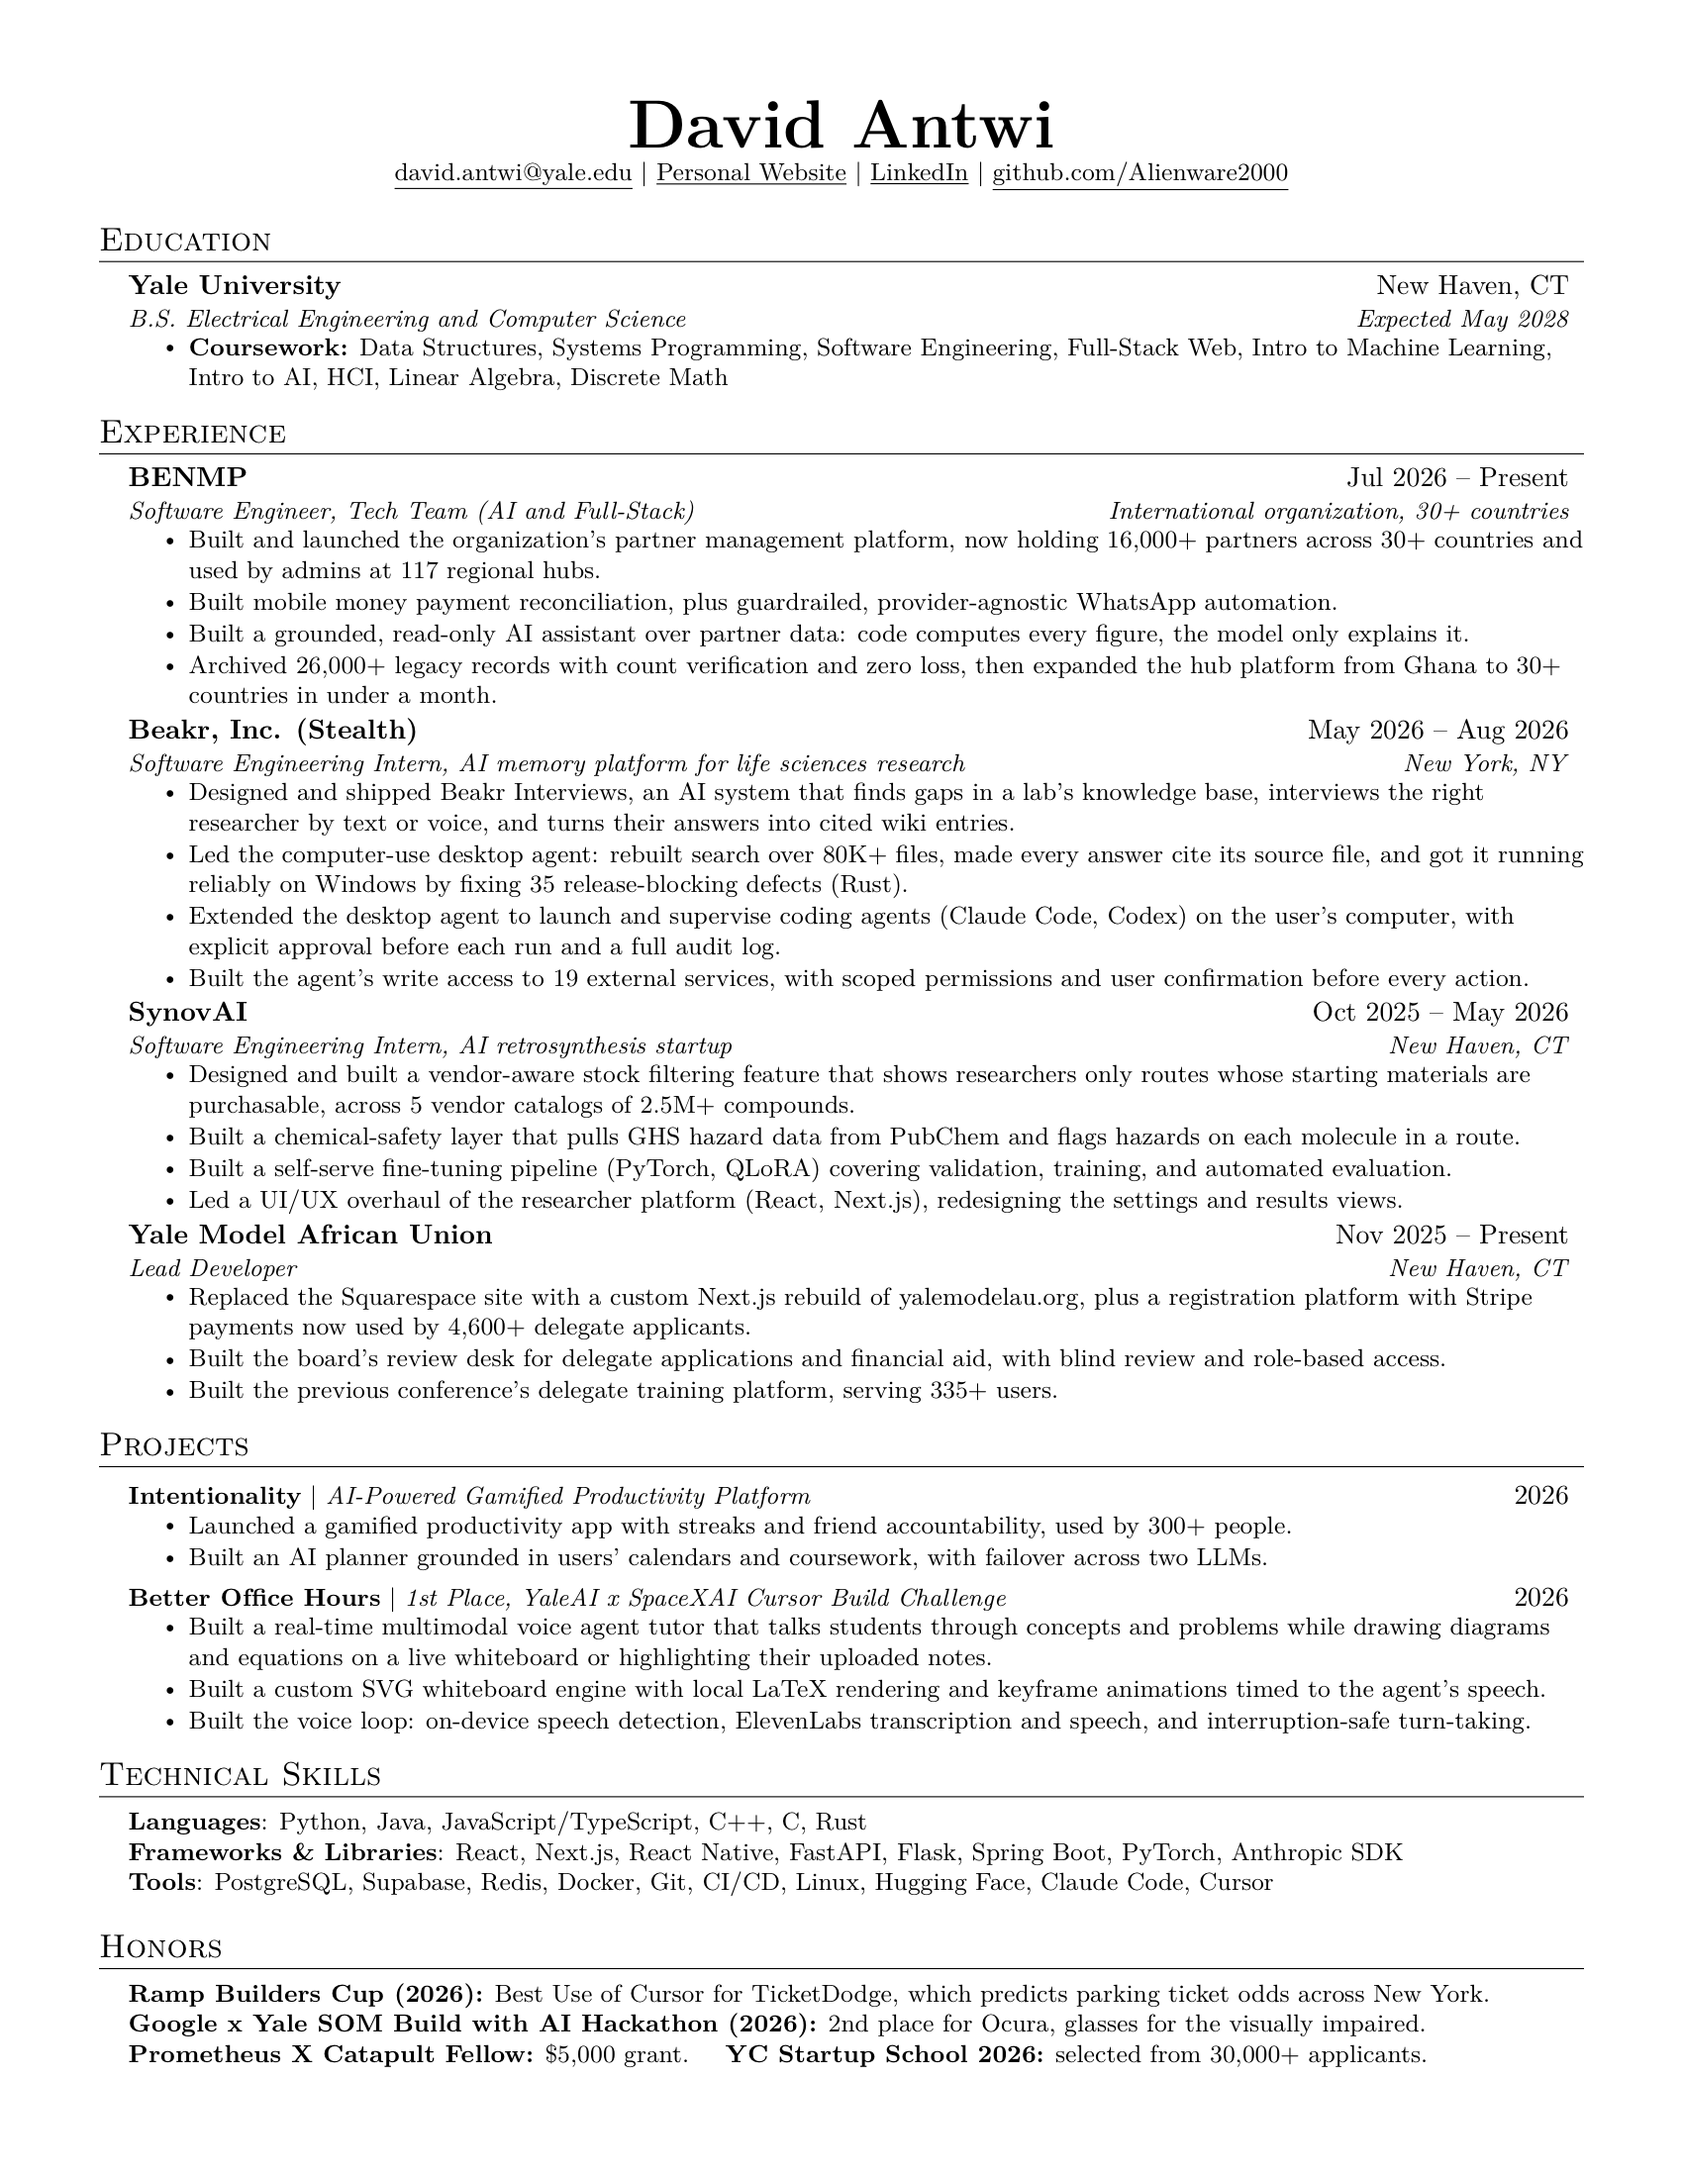
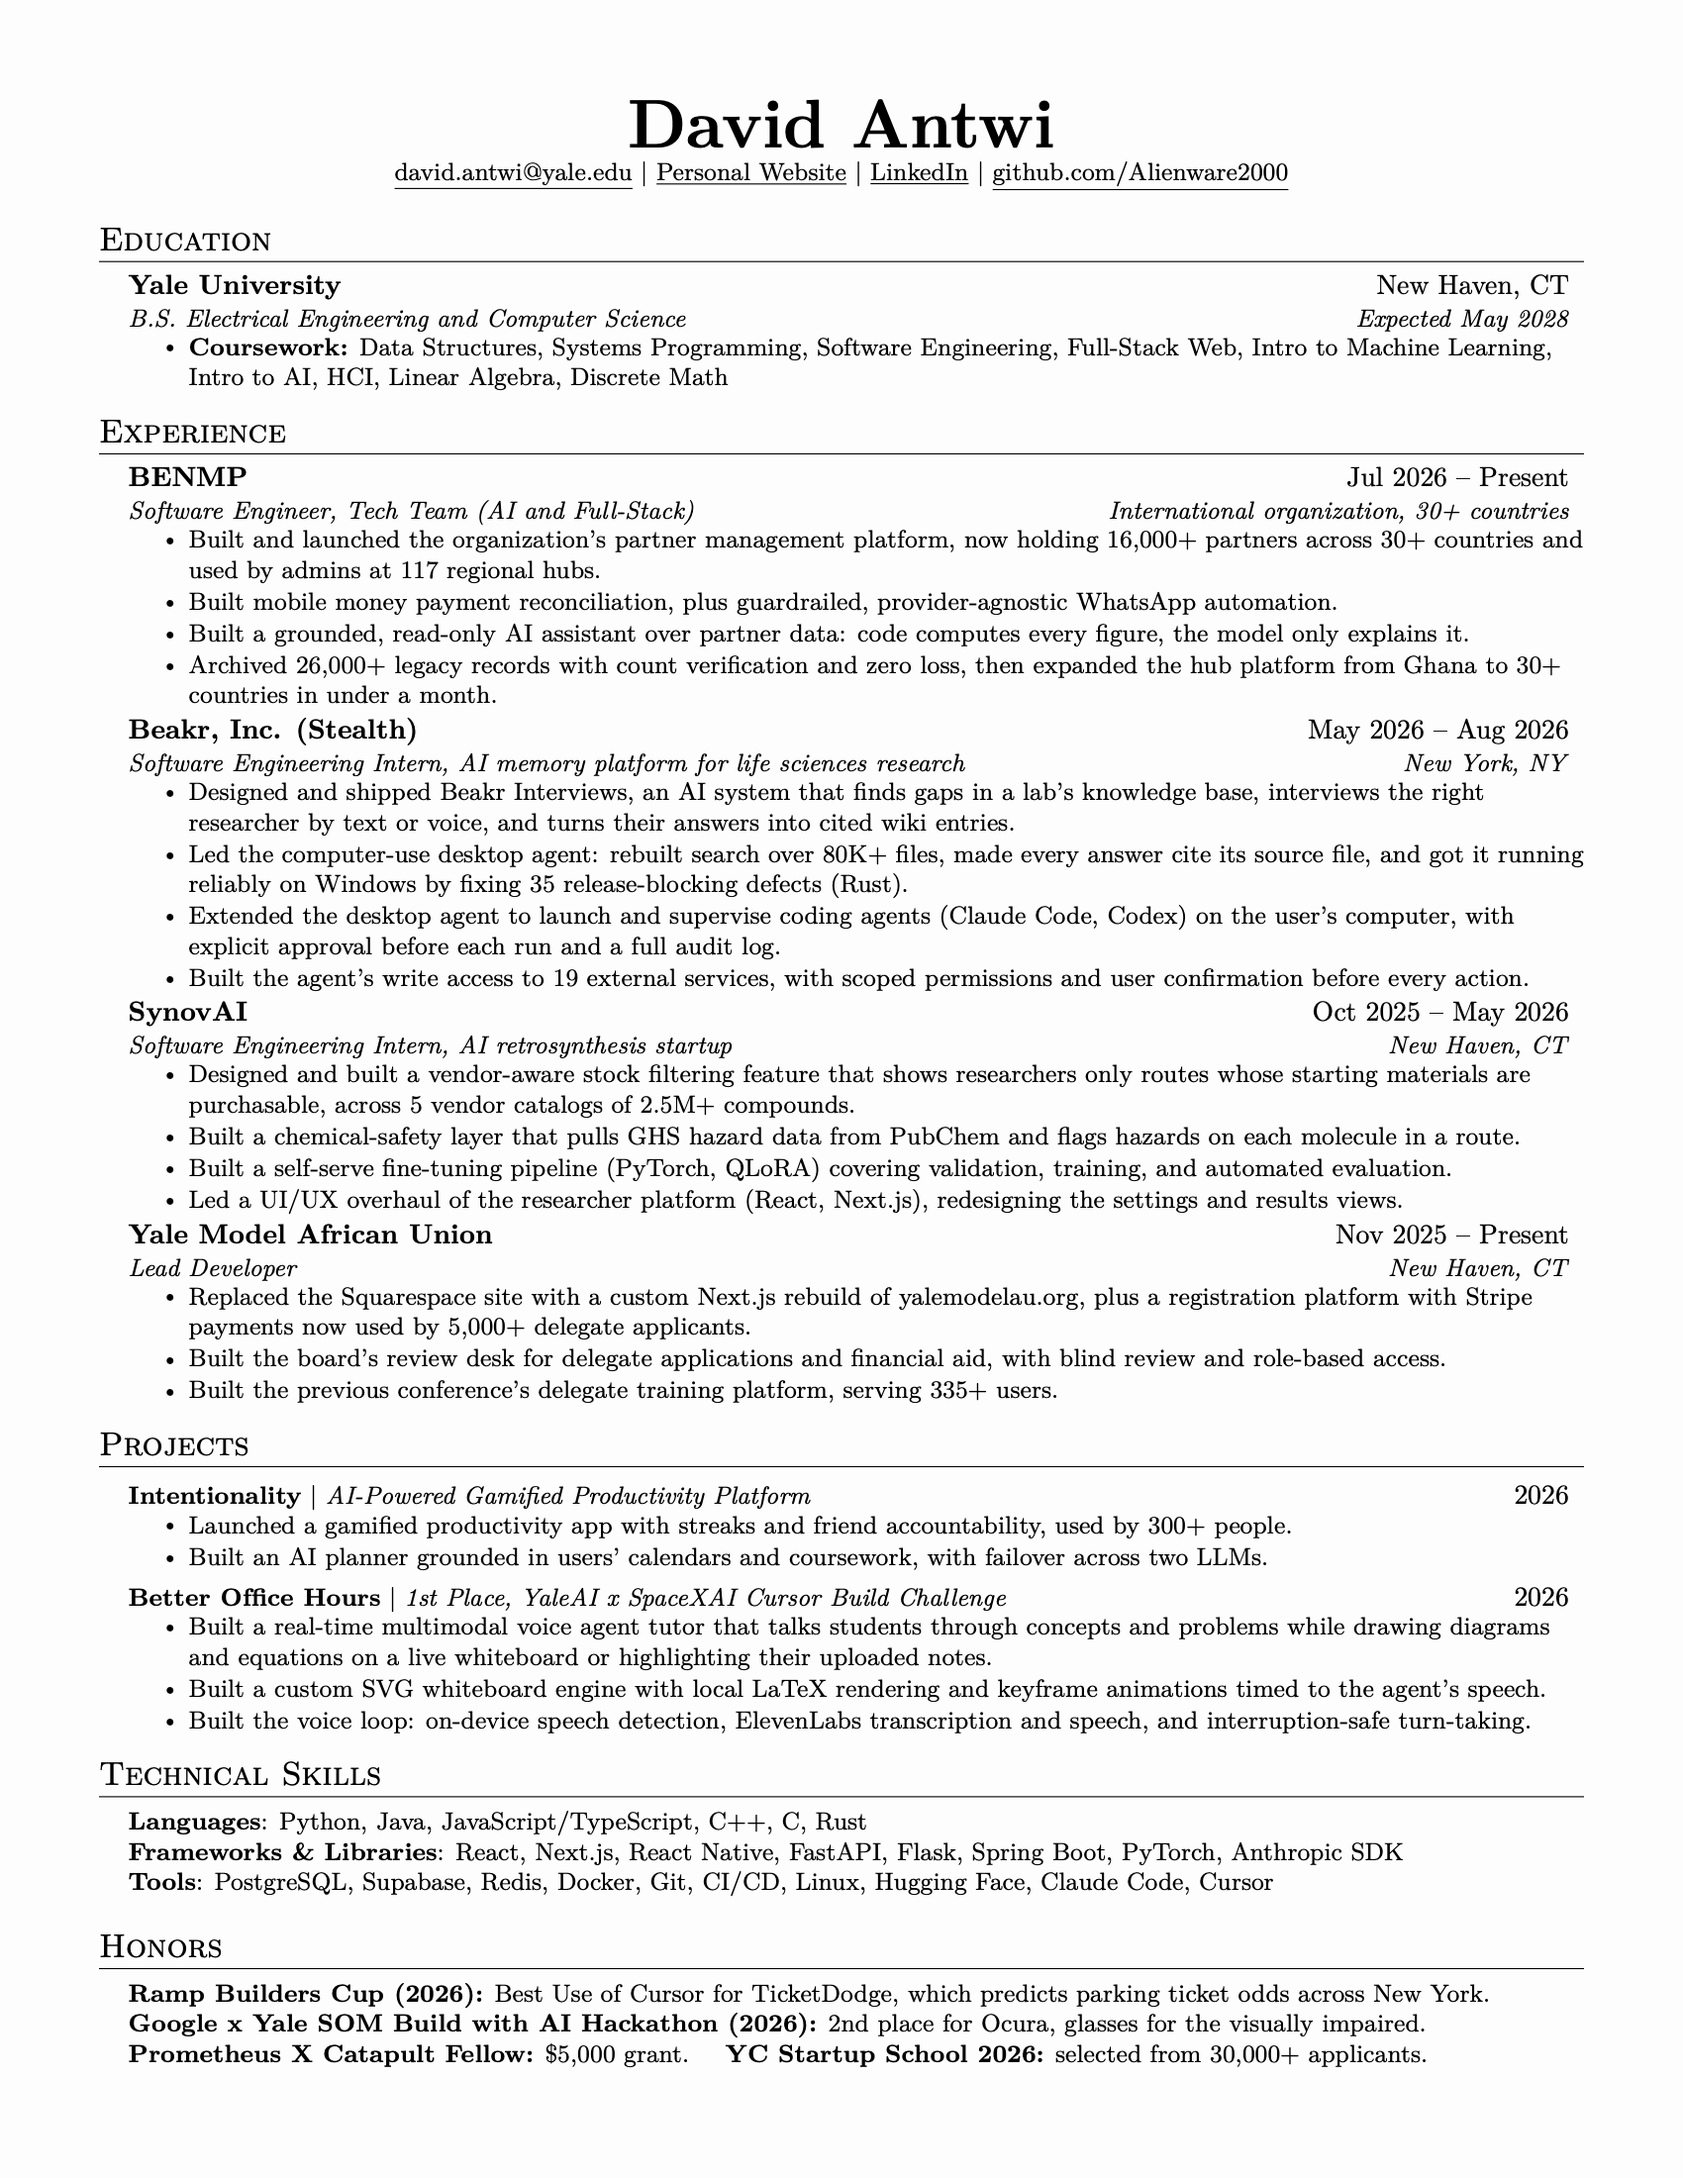
Update YMAU VI numbers: 5,000+ delegates, 127 delegations

diff --git a/src/data/profile.js b/src/data/profile.js
@@ -22,7 +22,7 @@ export const profile = {
 
 export const stats = [
   { value: "16,000+", label: "partners in 30+ countries on a platform I co-built" },
-  { value: "4,600+", label: "delegates on a conference registration platform I built" },
+  { value: "5,000+", label: "delegates on a conference registration platform I built" },
   { value: "2", label: "startup software engineering internships" },
   { value: "3", label: "hackathon wins in 2026" },
 ];
@@ -148,7 +148,7 @@ export const leadership = [
     role: "Lead Developer · Committee Chair",
     dates: "Nov 2025 → Now",
     active: true,
-    text: "Rebuilt the conference site and built the registration platform (4,600+ delegates and 116 delegations for YMAU VI), and chaired a 30-delegate committee at the Accra conference.",
+    text: "Rebuilt the conference site and built the registration platform (5,000+ delegates and 127 delegations for YMAU VI), and chaired a 30-delegate committee at the Accra conference.",
   },
   {
     org: "Yale Africa Innovation Symposium",
@@ -301,7 +301,7 @@ export const projects = [
     featured: 7,
     category: "product",
     description:
-      "Conference site, Stripe registration, and a blind-review desk for delegate applications and financial aid. 4,600+ delegates and 116 delegations signed up for YMAU VI so far.",
+      "Conference site, Stripe registration, and a blind-review desk for delegate applications and financial aid. 5,000+ delegates and 127 delegations signed up for YMAU VI so far.",
     tags: ["Next.js", "Stripe", "PostgreSQL"],
     live: "https://www.yalemodelau.org",
     preview: true,
@@ -458,11 +458,11 @@ export const projects = [
 
 // "Building now": what I'm working on right now, one line per project (not a changelog).
 // Update the list and `updated` whenever the work changes; agents read `updated` as "current as of".
-export const updated = "2026-10-27";
+export const updated = "2026-11-02";
 export const building = [
   { tag: "Drone swarm", slug: "drone-swarm", text: "Squads of four drones through obstacle worlds with re-planning, then reinforcement learning in JAX and the first real Crazyflies." },
   { tag: "YAIS", slug: "yais-platform", text: "Getting YAIS V ready to launch: registration, Stripe checkout, QR passes and the staff check-in desk are in private testing." },
-  { tag: "YMAU", slug: "ymau-registration-desk", text: "Running the YMAU VI registration platform as 4,600+ delegates sign up: payments, financial aid review, and keeping the database fast under load." },
+  { tag: "YMAU", slug: "ymau-registration-desk", text: "Running the YMAU VI registration platform as 5,000+ delegates sign up: payments, financial aid review, and keeping the database fast under load." },
   { tag: "Mars Rover", slug: "mars-rover-autonomy", text: "The mission coordinator and simulation tooling for both University Rover Challenge 2027 autonomy missions." },
   { tag: "BENMP", slug: "benmp-partner-platform", text: "Office tools for the partner platform as it grows past 117 hubs, starting with one admin view across every region." },
   { tag: "muSim", org: "Saxena Lab", text: "Generalizing the lab's reinforcement-learning controllers for musculoskeletal models to new bodies, and making the code modular and faster to train." },

diff --git a/src/data/cases.js b/src/data/cases.js
@@ -200,8 +200,8 @@ export const cases = {
     hardPart:
       "Selling a capped number of places correctly across serverless instances, when one delegate can pay for a whole group and Stripe responses can get lost. Every payment, submission and aid write takes one transaction-scoped Postgres row lock first. A group checkout reserves all its places at once or fails as a whole, and a checkout only expires when Stripe confirms it, never on the app's own clock. I tested it by running the real migration in an in-memory Postgres, with two people racing for the last place and duplicate or out-of-order webhooks.",
     results: [
-      { value: "4,600+", label: "delegates signed up for YMAU VI" },
-      { value: "116", label: "delegations" },
+      { value: "5,000+", label: "delegates signed up for YMAU VI" },
+      { value: "127", label: "delegations" },
       { value: "3", label: "languages on the site" },
     ],
     decisions: [

diff --git a/resume/Antwi_David_Resume.tex b/resume/Antwi_David_Resume.tex
@@ -127,7 +127,7 @@
       {Yale Model African Union}{Nov 2025 -- Present}
       {Lead Developer}{New Haven, CT}
       \resumeItemListStart
-        \resumeItem{Replaced the Squarespace site with a custom Next.js rebuild of yalemodelau.org, plus a registration platform with Stripe payments now used by 4,600+ delegate applicants.}
+        \resumeItem{Replaced the Squarespace site with a custom Next.js rebuild of yalemodelau.org, plus a registration platform with Stripe payments now used by 5,000+ delegate applicants.}
         \resumeItem{Built the board's review desk for delegate applications and financial aid, with blind review and role-based access.}
         \resumeItem{Built the previous conference's delegate training platform, serving 335+ users.}
       \resumeItemListEnd
